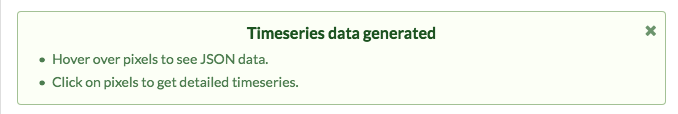
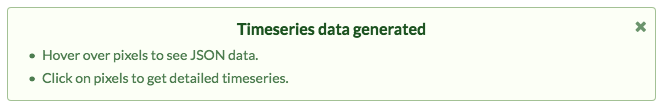
Refactored pages and images; continued Time Series description.

Changed region(s): [[0.0, 0.0556, 0.997, 0.9444], [0.3625, 0.1944, 0.6647, 0.3611], [0.9366, 0.1944, 0.997, 0.3056]]

diff --git a/docs/source/pages/TheMosaicHub.rst b/docs/source/pages/TheMosaicHub.rst
@@ -279,7 +279,7 @@ If everything is correct, click on "**Generate**".
 .. _time_series:
 
 Time Series
-===========
+***********
 
 The definition of a time series is very similar to the definition of a mosaic.
 A click on the button "**Time Series**" brings up the following page (see :numref:`timeSeriesDialog`):
@@ -293,6 +293,8 @@ A click on the button "**Time Series**" brings up the following page (see :numre
 
    Time Series Dialog Page
 
+Fill out all sections of the dialog and select the target pixel(s) on the map. Klicking on the lower symbol toggles
+between 1x1 and 3x3 pixels in the particular resolution (:numref:`timeSeriesPixels`). When done, click on "**Generate**".
 
 .. _timeSeriesPixels:
 .. figure:: images/TimeSeriesPixels.png
@@ -303,15 +305,19 @@ A click on the button "**Time Series**" brings up the following page (see :numre
 
    Time Series Pixels
 
+Successful processing changes the "Generate" button into the following message (:numref:`timeSeriesGenerated`):
+
 .. _timeSeriesGenerated:
 .. figure:: images/TimeSeriesGenerated.png
    :name: TimeSeriesGeneratedName
-   :scale: 50%
+   :scale: 100%
    :alt: Time Series Generated Message
    :align: center
 
    Time Series Generated Message
 
+Additionally, the pixels marked in :numref:`timeSeriesPixels` get a green border. Hovering over pixels will quickly display
+their values and metadata; clicking on pixels will display the values on a page with the option to export data to a CSV file (:numref:`timeSeriesData`).
 
 .. _timeSeriesHover:
 .. figure:: images/TimeSeriesHover.png
@@ -333,12 +339,6 @@ A click on the button "**Time Series**" brings up the following page (see :numre
 
    Time Series Data
 
-
-Compositing Periods
--------------------
-
-Pixel Selection
----------------
 
 User Area
 *********
